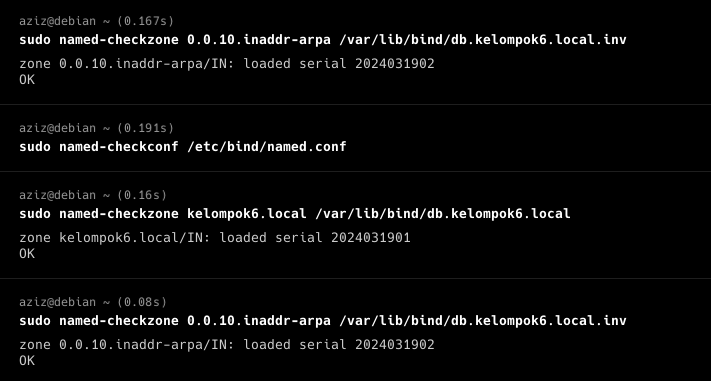
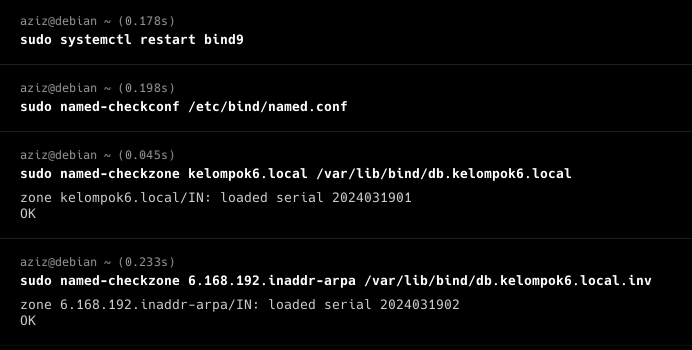
update setup-dns-server

diff --git a/setup-dns-server/README.md b/setup-dns-server/README.md
@@ -41,7 +41,7 @@
 
    ```bash
     forwarders {
-            202.9.85.3;
+            10.10.10.1;
             202.9.85.4;
     };
 
@@ -50,7 +50,7 @@
 
     listen-on-v6 { none; };
 
-    listen-on { 127.0.0.1; 10.0.2.15; };
+    listen-on { 127.0.0.1; 192.168.6.10; };
 
     allow-transfer { none; };
 
@@ -97,7 +97,7 @@
    @       IN      NS      ns.kelompok6.local.
    @       IN      MX      10 ns.kelompok6.local.
 
-   ns      IN      A       10.0.2.15
+   ns      IN      A       192.168.6.10
 
    www     IN      CNAME   ns
    mail    IN      CNAME   ns
@@ -120,7 +120,7 @@
    ;
    @       IN      NS      ns.kelompok6.local.
 
-   15      IN      PTR     ns.kelompok6.local.
+   10      IN      PTR     ns.kelompok6.local.
    ```
 
 6. Edit file `/etc/resolv.conf` :
@@ -131,7 +131,7 @@
 
    ```bash
    search kelompok6.local
-   nameserver 10.0.2.15
+   nameserver 192.168.6.10
    ```
 
 ### Langkah 4: Periksa Konfigurasi dan Restart BIND9
@@ -141,7 +141,7 @@
    ```bash
    sudo named-checkconf /etc/bind/named.conf
    sudo named-checkzone kelompok6.local /var/lib/bind/db.kelompok6.local
-   sudo named-checkzone 0.0.10.inaddr-arpa /var/lib/bind/db.kelompok6.local.inv
+   sudo named-checkzone 6.168.192.inaddr-arpa /var/lib/bind/db.kelompok6.local.inv
    ```
 
    ![Check](assets/ss-check.png)
@@ -164,7 +164,7 @@
 
    ```bash
    dig kelompok6.local
-   dig
+   dig -x 192.168.6.10
    ```
 
    ![Status](assets/ss-dig.png)

diff --git a/setup-web-server-&-email-server/README.md b/setup-web-server-&-email-server/README.md
@@ -357,7 +357,7 @@ Akan terlihat hasilnyaseperti dibawah, dengan status Server (LISTEN) : MariaDB(M
 Melakukan Cek terhadap Layanan Posﬁx
 
 ```bash
-telnet mail.kelompok11.local 25
+telnet mail.kelompok6.local 25
 ```
 
 ![mail cek](assets/telnet.png)
